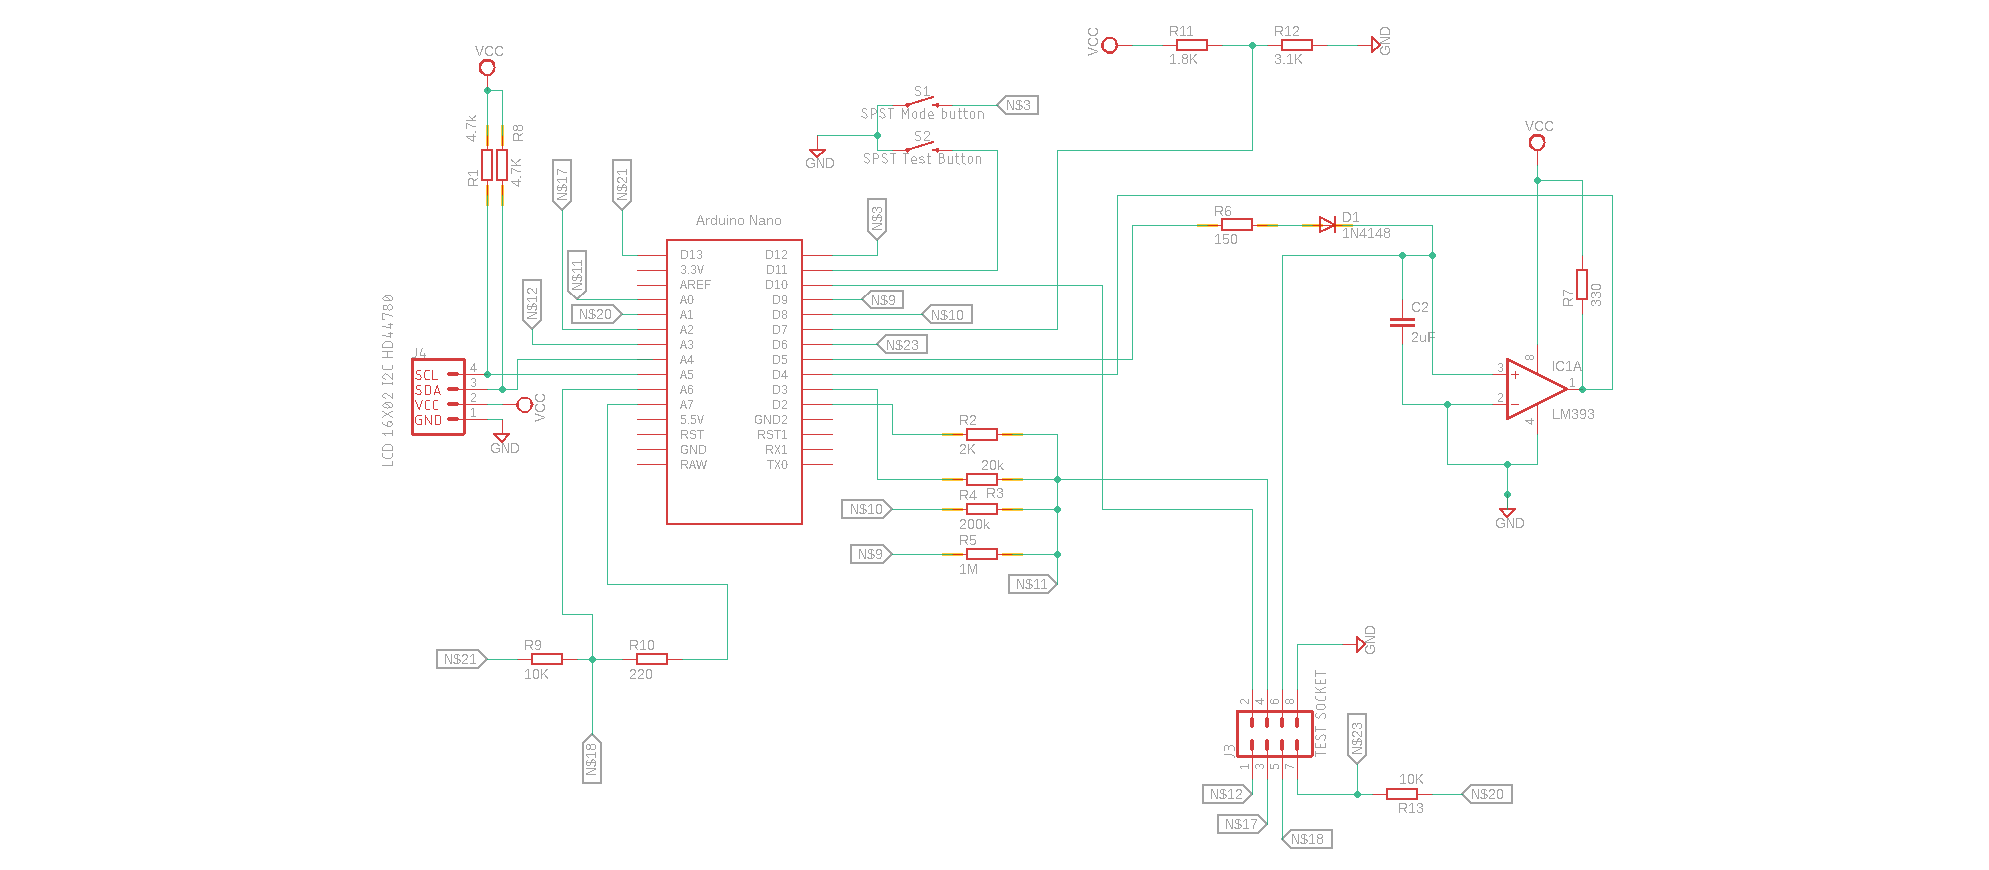
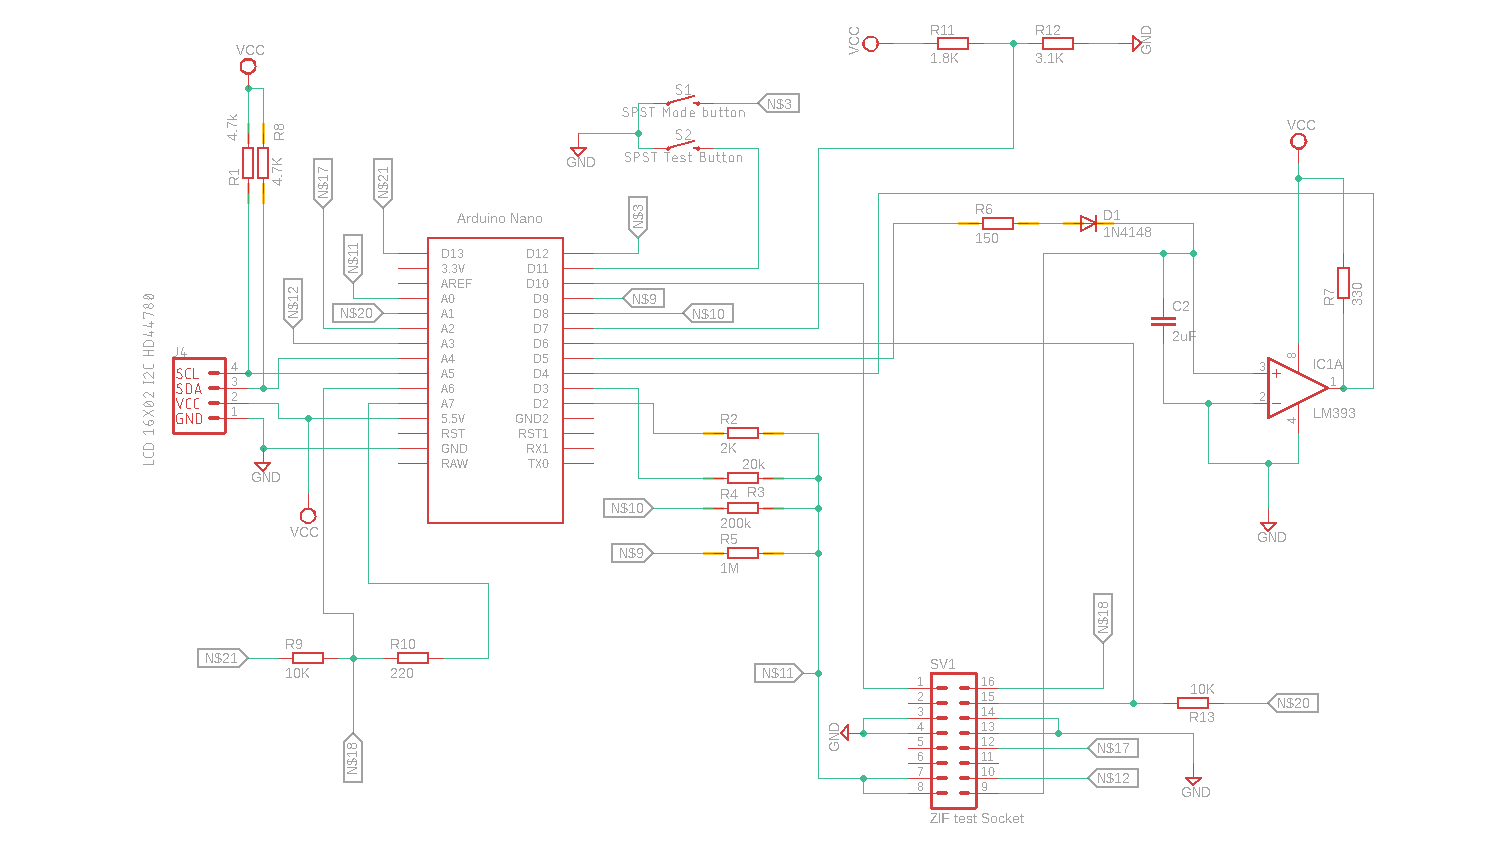
changing socket type for production

diff --git a/README.md b/README.md
@@ -129,9 +129,9 @@ Example Output
 
 Example output for Capacitor test 2 on a 10uF capacitor to LCD and serial monitor.
 
-![ScreenShot cap lcd1](https://github.com/gavinlyonsrepo/LCR_meter/blob/master/documentation/images/LCRmeterlcd1.jpg)
+![cap lcd1](https://github.com/gavinlyonsrepo/LCR_meter/blob/master/documentation/images/LCRmeterlcd1.jpg)
 
-![ScreenShot cap lcd2](https://github.com/gavinlyonsrepo/LCR_meter/blob/master/documentation/images/LCRmeterlcd2.jpg)
+![cap lcd2](https://github.com/gavinlyonsrepo/LCR_meter/blob/master/documentation/images/LCRlcd2.jpg)
 
 ![ScreenShot cap serail](https://github.com/gavinlyonsrepo/LCR_meter/blob/master/documentation/images/LCRmeterserial.jpg)
 
